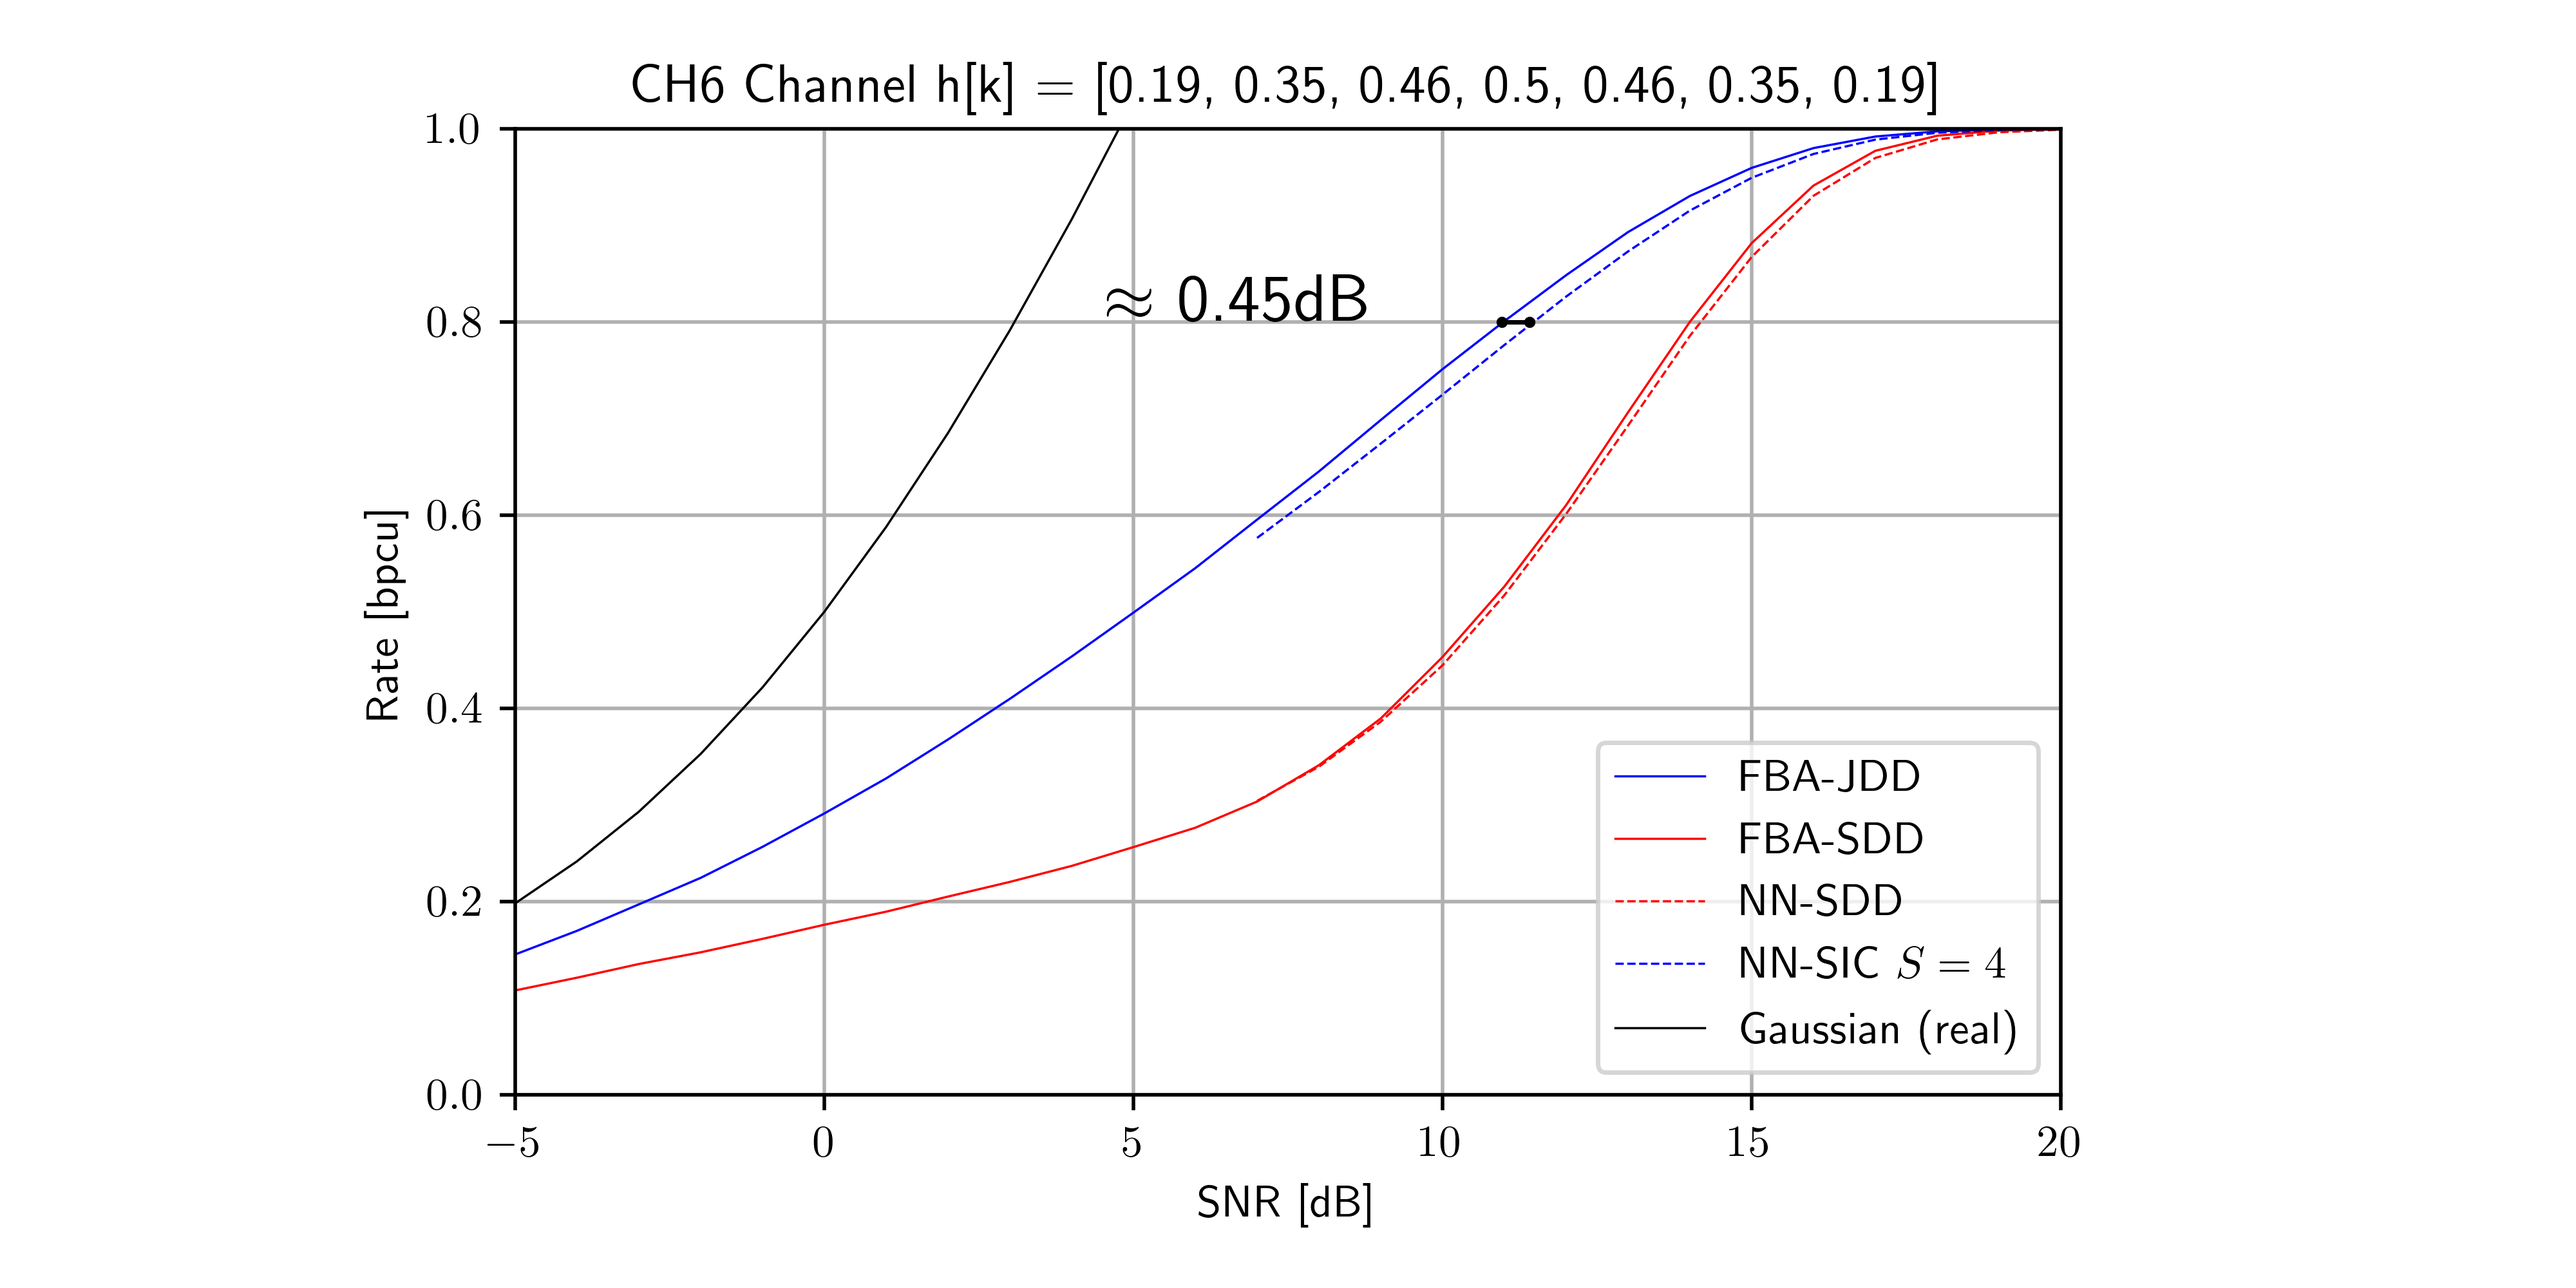
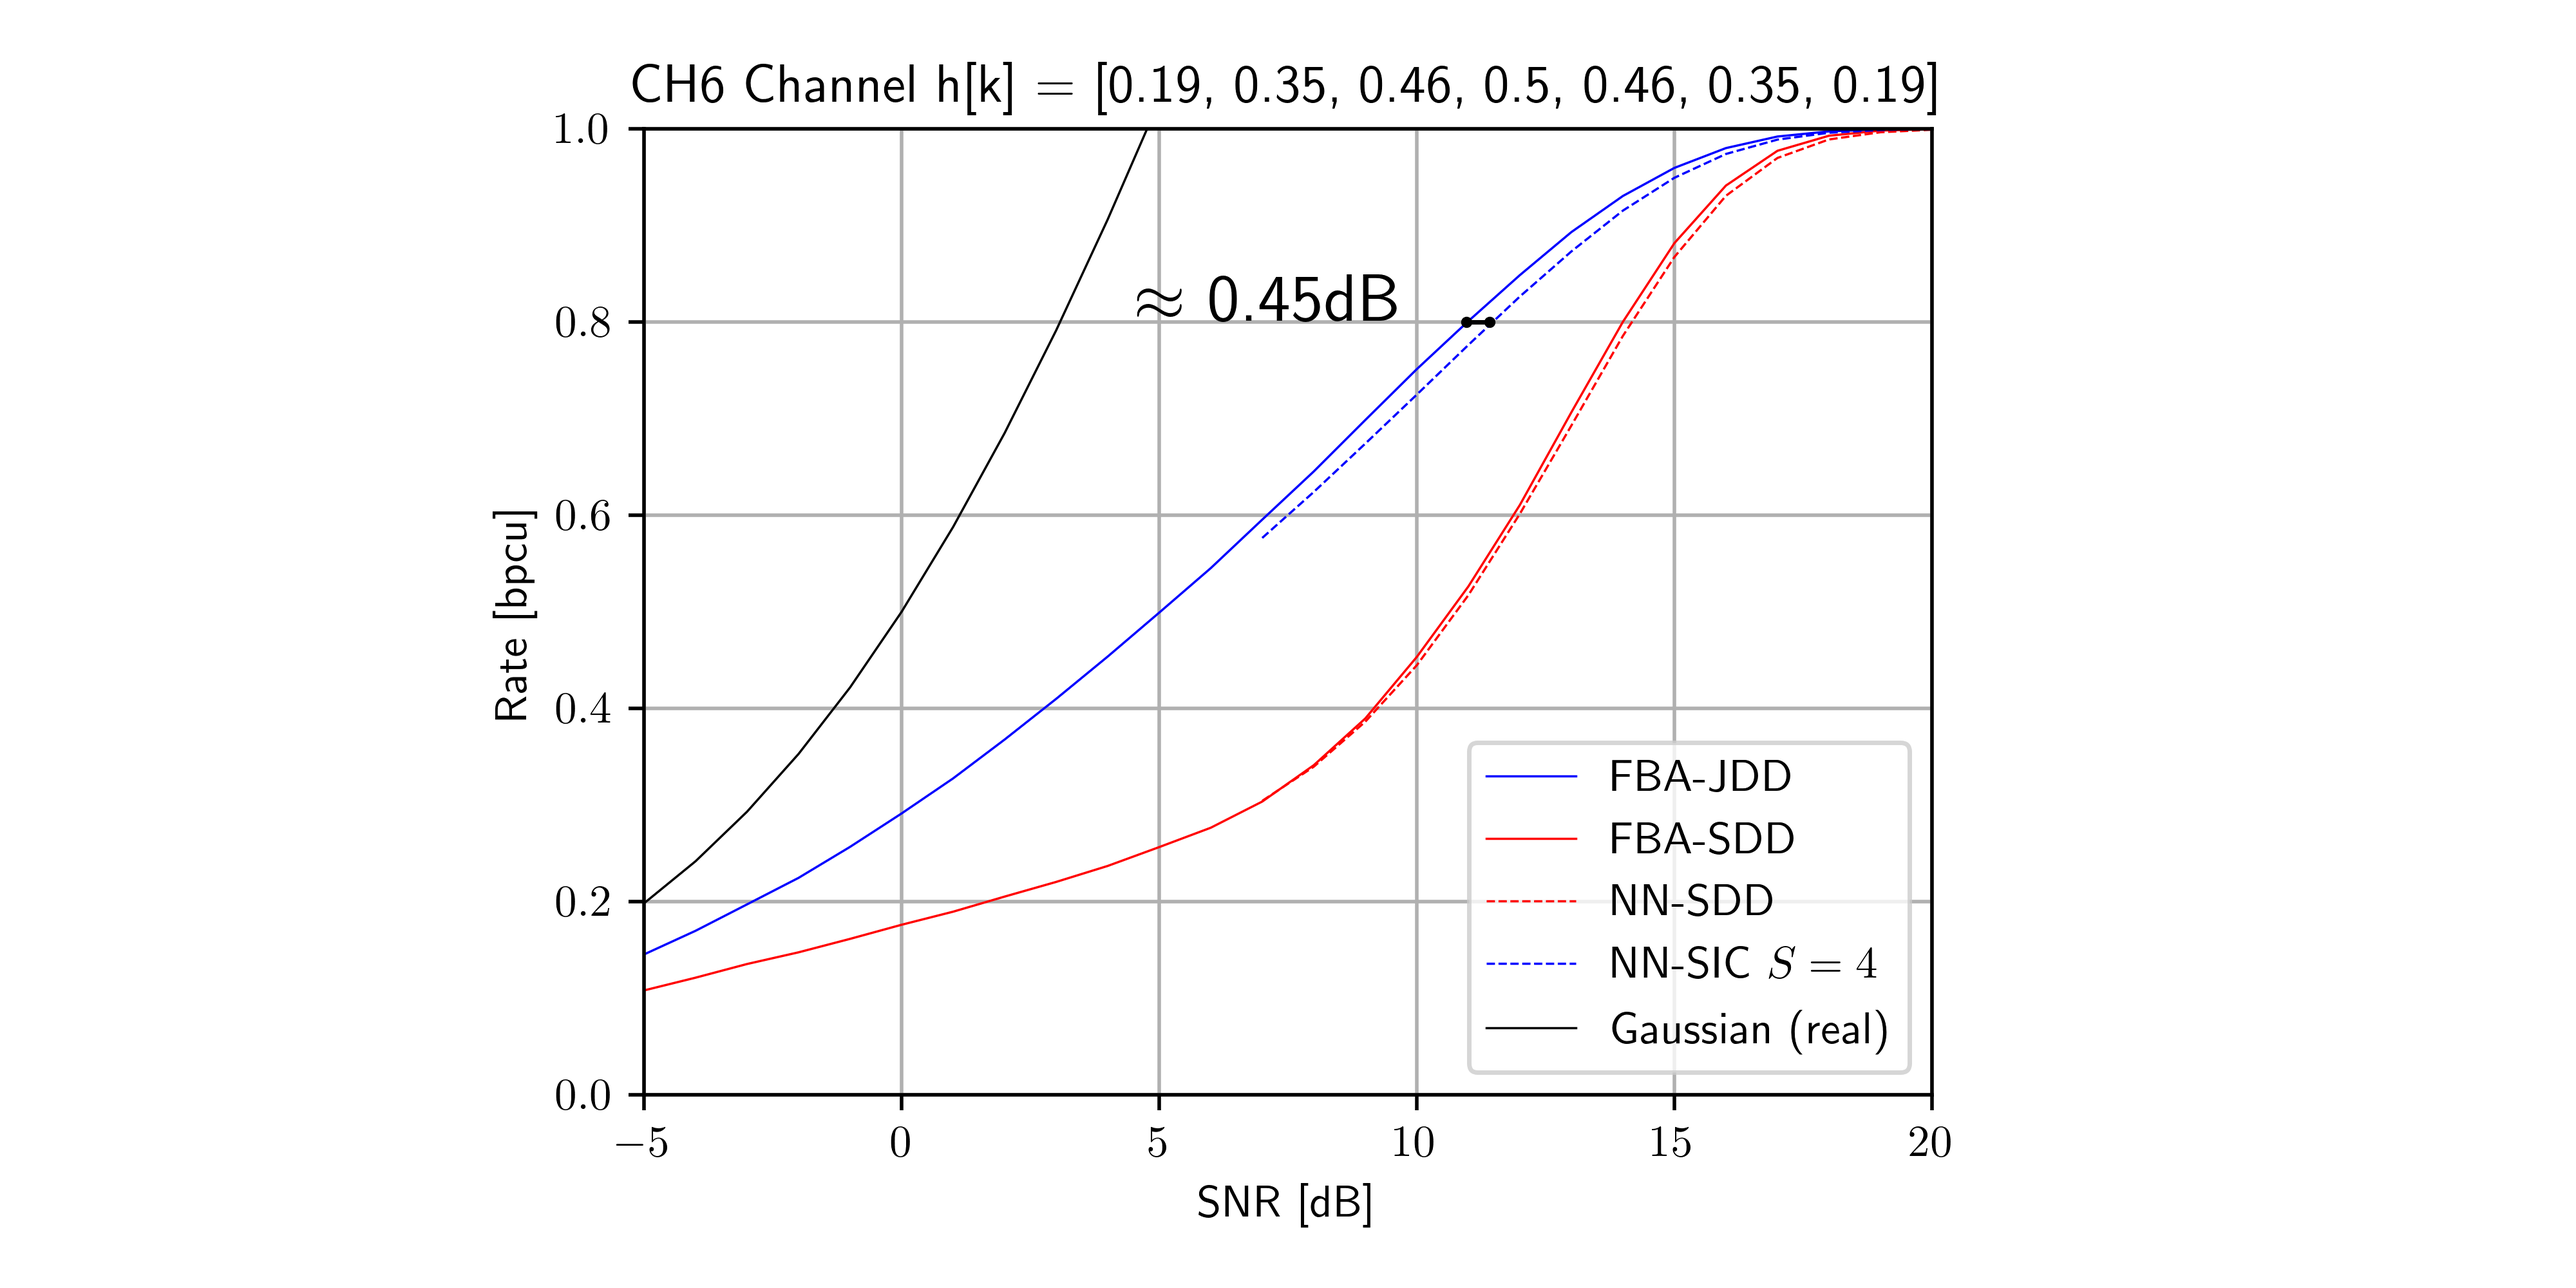
Scaled figures.

diff --git a/results/ex2_plot.py b/results/ex2_plot.py
@@ -198,7 +198,7 @@ plt.text(xval - 6.4, yval, r"$\approx$ 0.45dB", color="black", fontsize=15)
 
 plt.ylim((0, 1.00))
 plt.xlim((-5, 20))
-plt.subplots_adjust(left=0.2, right=0.8, top=0.9, bottom=0.15) #Add whitespace
+plt.subplots_adjust(left=0.25, right=0.75, top=0.9, bottom=0.15) #Add whitespace
 
 plt.legend(("FBA-JDD", "FBA-SDD", "NN-SDD", "NN-SIC $S=4$", "Gaussian (real)"))
 

diff --git a/results/ex3_plot.py b/results/ex3_plot.py
@@ -57,7 +57,7 @@ plt.legend(
 plt.ylabel("Rate [bpcu]")
 plt.xlabel("SNR [dB]")
 plt.grid(1)
-plt.subplots_adjust(left=0.2, right=0.8, top=0.9, bottom=0.15) #Add whitespace
+plt.subplots_adjust(left=0.25, right=0.75, top=0.9, bottom=0.15) #Add whitespace
 plt.xlim((-5, 30))
 plt.ylim((0, 2))
 
